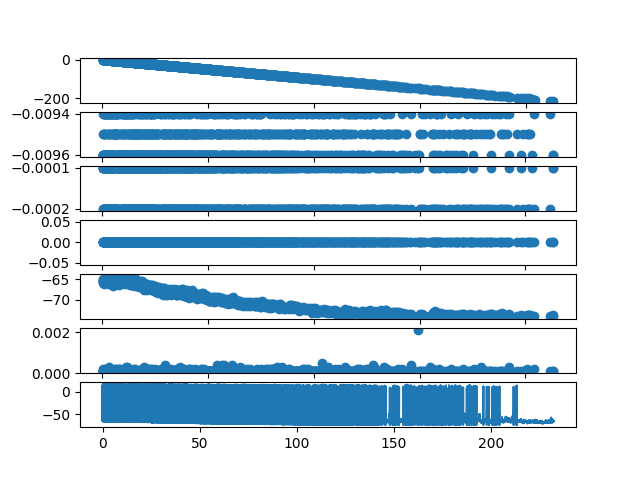
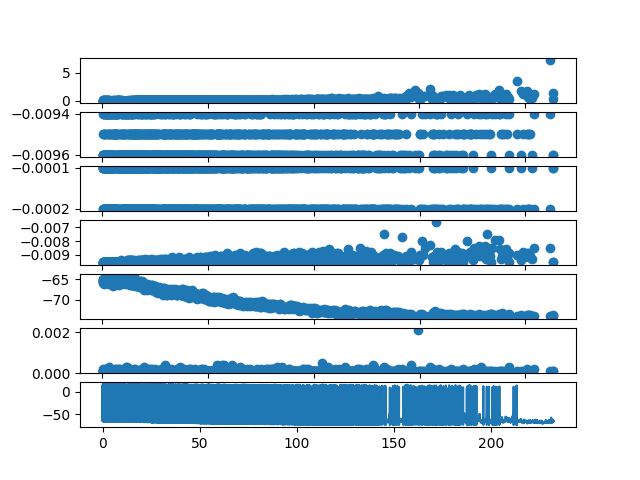
fixed half-width meas

diff --git a/functions/apFind.py b/functions/apFind.py
@@ -27,17 +27,16 @@ def apFind(trace, threshold=-20.0, buff=0.01, freq=10000):
 
     start = 0 # Start of threshold crossing for each AP
     for idx, val in enumerate(trace):
-        ap_count = len(apPeaks)
         if (val > threshold) and (start == 0):
             start = idx
         elif (val < threshold) and (start != 0):
             # Find the peak of the AP based on the start/end of threshold crossing...
             peak_idx = np.argmax(trace[start:idx]) + start
-            apPeaks.append(peak_idx + start)
+            apPeaks.append(peak_idx)
 
             # Find inter-spike interval by taking difference in the indices of this AP and the previous one, then dividing by sampling frequency
-            if (ap_count > 1):
-                apInterSpikeIntervals.append((peak_idx - apPeaks[ap_count]) / freq)
+            if (len(apPeaks) > 1):
+                apInterSpikeIntervals.append((peak_idx - apPeaks[-2]) / freq)
 
             # Get the subtrace array based on the peak and the buffer
             sub_trace = trace[int(peak_idx - buffer):int(peak_idx + buffer)]
@@ -52,7 +51,7 @@ def apFind(trace, threshold=-20.0, buff=0.01, freq=10000):
             apDecay.append((ap_return - peak_idx) / freq)
 
             # Half width, and after-hyperpolarization len/min are found using sub functions
-            apHalfWidth.append(halfWidth(sub_trace, (peak_idx - start), (ap_takeoff - start), freq))
+            apHalfWidth.append(halfWidth(sub_trace, (peak_idx - start + buffer), (ap_takeoff - start + buffer), freq))
 
             # Collapsed all AHP measurements into one function
             ahp_min, ahp_min_idx, ahp_len = ahpMeas(trace[int(peak_idx - buffer):int(peak_idx + (2*buffer))], int(ap_return - start), freq)

diff --git a/functions/subFuncs.py b/functions/subFuncs.py
@@ -30,21 +30,22 @@ def halfWidth(ap_array, peak, takeoff, freq):
     half_decay = 0
 
     # Find the points at which rise and decay cross half_height...
-    for idx, x in enumerate(ap_array[int(takeoff):int(peak)]):
-        if x < half_height:
-            continue
-        elif x > half_height:
+    for idx, x in enumerate(ap_array[:int(peak)]):
+        if x > half_height:
             half_rise = idx
             break
+        else:
+            continue
     
     for idx, x in enumerate(ap_array[int(peak):]):
-        if x > half_height:
-            continue
-        elif x < half_height:
+        if x < half_height:
             half_decay = idx
             break
+        else:
+            continue
     # Return the difference in these two points (divided by sampling frequency, to return in s)
-    return (half_decay - half_rise) / freq
+    #print(half_decay, half_rise)
+    return ((half_decay - half_rise) / freq)
 
 # All of the AHP measurements have been collapsed into this one function, as they primarily 
 def ahpMeas(ap_array, ap_return, freq):

diff --git a/apMeas.py b/apMeas.py
@@ -22,9 +22,8 @@ abf = pyabf.ABF(f'{working_directory}/{df.trace_num.item()}.abf')
 
 apPeaks, apInterSpikeIntervals, apRise, apDecay, apHalfWidth, apAHPmin, apAHPlen = apFind(abf.sweepY)
 apPeaks_tp = [x/10000 for x in apPeaks]
-print(len(apPeaks), len(apInterSpikeIntervals), len(apRise), len(apDecay), len(apHalfWidth), len(apAHPmin), len(apAHPlen))
 fig, axs = plt.subplots(7,1)
-axs[0].scatter(apPeaks_tp[1:-1], apInterSpikeIntervals)
+axs[0].scatter(apPeaks_tp[1:], apInterSpikeIntervals)
 axs[1].scatter(apPeaks_tp, apRise)
 axs[2].scatter(apPeaks_tp, apDecay)
 axs[3].scatter(apPeaks_tp, apHalfWidth)
